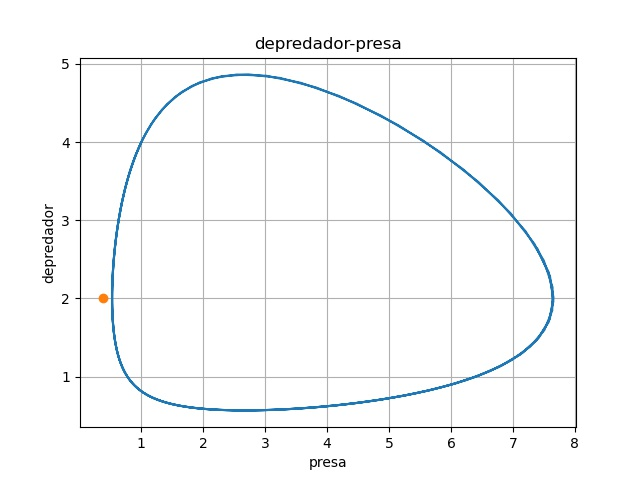
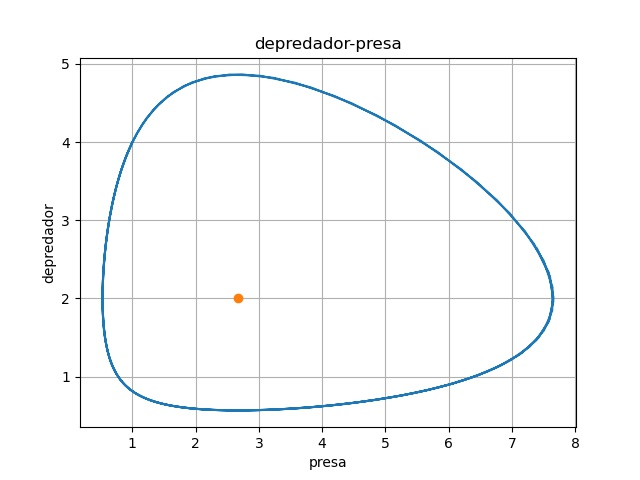
rehago grafico f

diff --git a/tp2/item_f/grafico_ciclico_item_f.py b/tp2/item_f/grafico_ciclico_item_f.py
@@ -6,7 +6,7 @@ x = resultados[:, 1]
 y = resultados[:, 2]
 
 plt.plot(x, y)
-plt.plot(0.3/0.8, 1.2/0.6, marker='o')
+plt.plot(0.8/0.3, 1.2/0.6, marker='o')
 
 plt.title('depredador-presa')
 plt.xlabel('presa')
